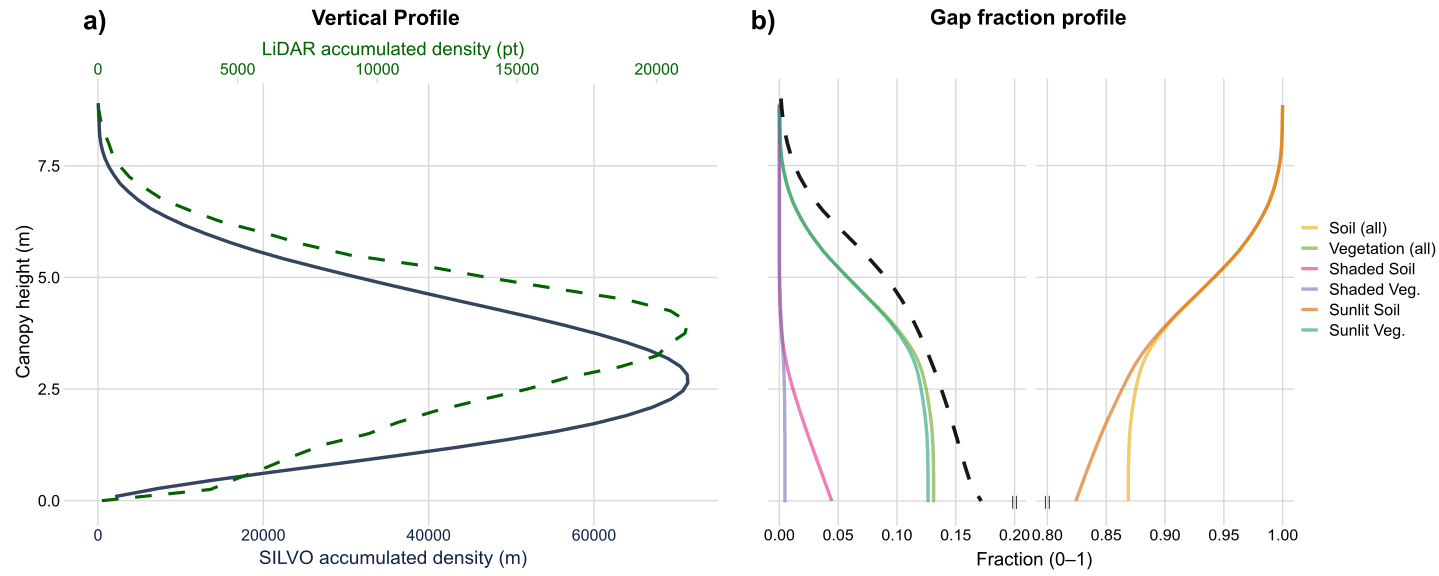
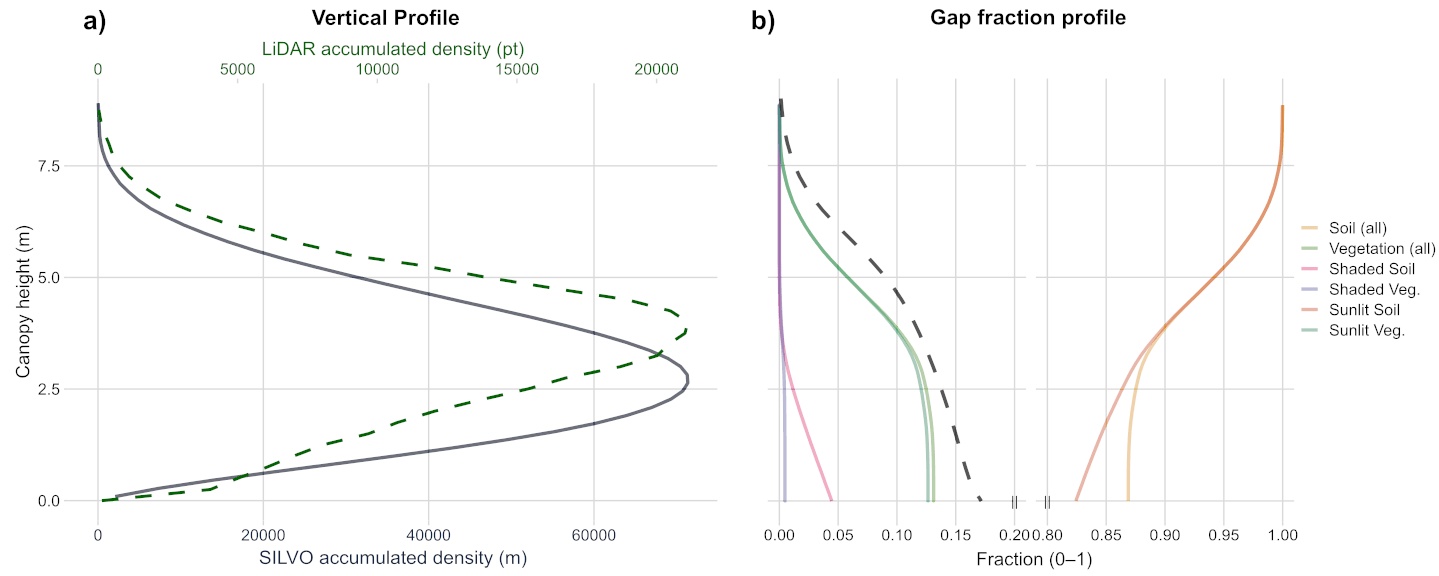
DOI and how to cite it included

diff --git a/README.md b/README.md
@@ -1,6 +1,6 @@
-# SILVO — Simplified Light–Vegetation Overlay Model
+# SILVO — a Simplified Light–Vegetation Overlay model
 ![CI](https://github.com/ahornero/SILVO/actions/workflows/cpp.yml/badge.svg)
-![DOI](https://img.shields.io/badge/DOI-pending-lightgrey)
+[![DOI](https://img.shields.io/badge/DOI-10.1016/j.jag.2026.105178-lightgrey)](https://doi.org/10.1016/j.jag.2026.105178)
 [![License](https://img.shields.io/badge/License-AGPLv3-blue.svg)](LICENSE)
 ![OpenMP](https://img.shields.io/badge/OpenMP-enabled-success.svg)
 <!-- 
@@ -13,6 +13,16 @@
 (e.g., orchards, open woodlands, agroforestry systems) from **minimal inputs**: tree crown position/size plus sun/view geometry.
 
 It is designed to be fast and reproducible, and it is parallelised with **OpenMP**.
+
+## Table of contents
+
+- [What SILVO produces](#what-silvo-produces)
+- [Quick start (Linux)](#quick-start-linux)
+- [Usage](#usage)
+- [Help](#help)
+- [Inputs](#inputs)
+- [Outputs](#outputs)
+- [How to cite](#how-to-cite)
 
 ## What SILVO produces
 
@@ -112,3 +122,25 @@ SILVO writes outputs to the current working directory:
     - _vertical_profile.csv_ (generated when camera_zenith == 90)
     - _gap_fraction_profile.csv_ (generated when gap_fraction_profile_enabled = 1 and camera_zenith != 90)
 
+## How to cite
+
+If you use SILVO in academic work, please cite:
+
+```text
+Hornero, A., Prikaziuk, E., Hernandez-Clemente, R., van der Tol, C. (2026).
+SILVO, a lightweight 3D illumination model to characterise the spatial structure of heterogeneous vegetation canopies.
+International Journal of Applied Earth Observation and Geoinformation, 147, 105178. https://doi.org/10.1016/j.jag.2026.105178
+```
+```bibtex
+@article{Hornero2026SILVO,
+  title   = {SILVO, a lightweight 3D illumination model to characterise the spatial structure of heterogeneous vegetation canopies},
+  author  = {Hornero, A. and Prikaziuk, E. and Hernandez-Clemente, R. and van der Tol, C.},
+  journal = {International Journal of Applied Earth Observation and Geoinformation},
+  volume  = {147},
+  pages   = {105178},
+  year    = {2026},
+  issn    = {1569-8432},
+  doi     = {10.1016/j.jag.2026.105178},
+  url     = {https://doi.org/10.1016/j.jag.2026.105178}
+}
+```
